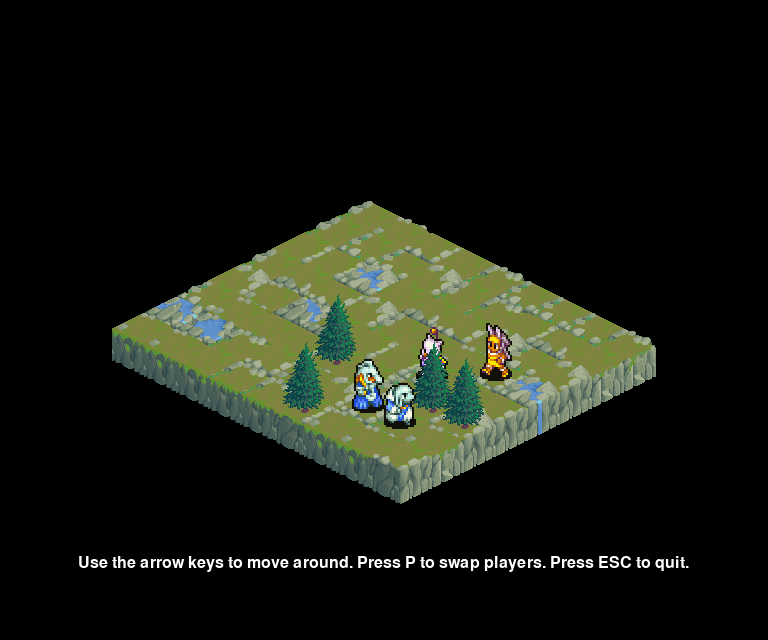
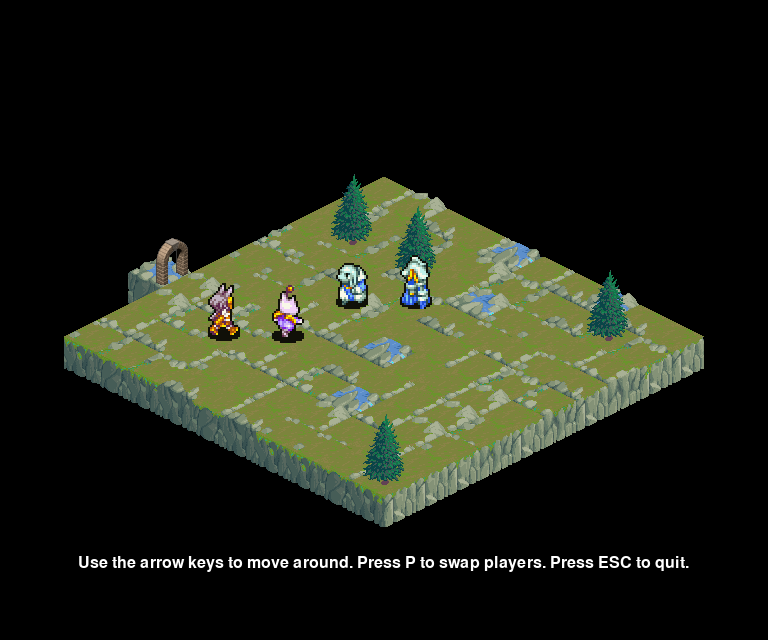
Add YAML configuration

Changed region(s): [[0.0625, 0.2812, 0.9375, 0.8438]]

diff --git a/amulet.py b/amulet.py
@@ -1,14 +1,11 @@
 import pygame
 from pygame.time import Clock
-from room import Room
 import sys
-from floor import Floor
 from random import randint, shuffle
-from actor import Babus, Archer, Templar, Mog, Actor
+from actor import Actor
 from functools import reduce
-from staticobject import StaticObject, Pillar
-from terraintile import TileType
-from exit import Exit
+from staticobject import StaticObject
+from gameloader import create_map
 
 class Amulet:
     def __init__(self):
@@ -28,15 +25,16 @@ class Amulet:
         pygame.mixer.music.load("badkalimba.mp3")
         pygame.mixer.music.play()
 
-        self.new_message("Use the arrow keys to move around. Press P to swap players. Press ESC to quit.")
+        self.new_message(
+            "Use the arrow keys to move around. Press P to swap players. Press ESC to quit.")
         self.new_alert("Welcome to Tactics Roguelike Engine Advance!")
-    
+
     def get_player_room(self):
         for actor in self.actors:
             if actor.getIsPlayer():
                 return actor.room
         return None
-    
+
     def get_player(self):
         for actor in self.actors:
             if actor.getIsPlayer():
@@ -45,7 +43,7 @@ class Amulet:
 
     def add_floor(self, floor):
         self.floors.append(floor)
-    
+
     def get_floors(self):
         return self.floors
 
@@ -67,6 +65,28 @@ class Amulet:
             return False
         return True
 
+    def leave(self, nx, ny):
+        player = self.get_player()
+        room = self.get_player_room()
+        floor = self.get_floors()[0]
+
+        exits = [(con, dest)
+                 for exit in floor.exits for con in exit.connections
+                 for dest in exit.connections if con[0] == room and dest[0] != room]
+
+        for exit in exits:
+            con, dest = exit
+            if nx == con[1] and ny == con[2]:
+                self.new_alert("Moving to room: " + dest[0].name)
+                (mx, my) = player.get_facing_delta()
+                player.room = dest[0]
+                player.x = dest[1] + mx
+                player.y = dest[2] + my
+                player.pos = (player.x, player.y)
+                return True
+
+        return False
+
     def move_player(self, forward):
         player = self.get_player()
         room = self.get_player_room()
@@ -77,8 +97,10 @@ class Amulet:
         (mx, my) = player.get_facing_delta()
         (px, py) = player.getPos()
         (nx, ny) = (px + mx, py + my) if forward else (px - mx, py - my)
-        if self.object_at(nx, ny) is None and self.in_room(room, nx, ny):
-            player.move_to(px, py, nx, ny)
+
+        if not self.leave(nx, ny):
+            if self.object_at(nx, ny) is None and self.in_room(room, nx, ny):
+                player.move_to(px, py, nx, ny)
 
     def swap_player(self):
         player = self.get_player()
@@ -128,7 +150,7 @@ class Amulet:
                         elif event.key == pygame.K_UP:
                             self.move_player(True)
                         elif event.key == pygame.K_DOWN:
-                            self.move_player(False)
+                            self.rotate_player(2)
                         elif event.key == pygame.K_p:
                             self.swap_player()
                         elif event.key == pygame.K_F5:
@@ -136,7 +158,8 @@ class Amulet:
                             create_map(self)
                         elif event.key == pygame.K_PRINTSCREEN:
                             pygame.image.save(self.screen, "screenshot.png")
-                            self.new_alert("Screenshot saved to screenshot.png")
+                            self.new_alert(
+                                "Screenshot saved to screenshot.png")
                     except AttributeError:
                         pass
                 elif event.type == self.animation_event:
@@ -148,57 +171,29 @@ class Amulet:
                     for actor in [a for a in actors if a.getMoving()]:
                         actor.update()
                     for actor in [a for a in actors if not a.getMoving() and not a.getIsPlayer()]:
-                        bad_spaces = set((b for a in objects for b in a.i_am_at()))
+                        bad_spaces = set(
+                            (b for a in objects for b in a.i_am_at()))
                         actor.pathfind(player, bad_spaces)
-
 
             self.screen.fill((0, 0, 0))
 
             room.draw(self.screen, objects, self.get_floors()[0].exits)
 
-            self.screen.blit(self.instructions, ((self.screen.get_width() - self.instructions.get_width())//2, \
-                self.screen.get_height() - 5 * self.instructions.get_height()))
+            self.screen.blit(self.instructions, ((self.screen.get_width() - self.instructions.get_width())//2,
+                                                 self.screen.get_height() - 5 * self.instructions.get_height()))
 
             # if alert is set, display it for a while
             if self.alert is not None:
                 if pygame.time.get_ticks() - self.alert_time > 5000:
                     self.alert = None
                 else:
-                    self.screen.blit(self.alert, ((self.screen.get_width() - self.alert.get_width())//2, \
-                        self.screen.get_height() - 6 * self.alert.get_height()))
+                    self.screen.blit(self.alert, ((self.screen.get_width() - self.alert.get_width())//2,
+                                                  self.screen.get_height() - 6 * self.alert.get_height()))
 
             pygame.display.flip()
 
         pygame.time.set_timer(self.animation_event, 0)
         pygame.time.set_timer(self.movement_event, 0)
-
-
-def create_map(amulet: Amulet):
-    amulet.floors = []
-    amulet.actors = []
-
-    floor = Floor('Test Floor')
-    amulet.add_floor(floor)
-
-    room = Room(10, 10, TileType.OUTSIDE)
-    floor.add_room(room)
-    other_room = Room(5, 7, TileType.ROOM)
-    floor.add_room(other_room)
-
-    floor.exits.append(Exit((room, 3, -1), (other_room, 4, other_room.height)))
-
-    all_spaces = [(x, y) for x in range(room.width) for y in range(room.height)]
-    shuffle(all_spaces)
-    player = Babus(all_spaces.pop())
-    player.setIsPlayer(True)
-    amulet.actors.append(player)
-    amulet.actors.append(Archer(all_spaces.pop()))
-    amulet.actors.append(Templar(all_spaces.pop()))
-    amulet.actors.append(Mog(all_spaces.pop()))
-    for _ in range(4):
-        amulet.actors.append(Pillar(all_spaces.pop()))
-    for actor in amulet.actors:
-        actor.room = room
 
 if __name__ == '__main__':
     amulet = Amulet()

diff --git a/gameloader.py b/gameloader.py
@@ -1,0 +1,53 @@
+import json
+from floor import Floor
+from room import Room
+from exit import Exit
+from random import shuffle
+from actor import Babus, Archer, Templar, Mog
+from staticobject import Pillar
+from terraintile import TileType
+
+json_fn = 'amulet.dat'
+
+def create_map(amulet):
+    with open(json_fn, "r") as stream:
+        game_yaml = json.load(stream)
+    
+    amulet.floors = []
+    amulet.actors = []
+
+    for floor_yaml in game_yaml:
+        floor_room_map = dict()
+
+        floor = Floor(floor_yaml['floor'])
+        amulet.add_floor(floor)
+
+        for room in floor_yaml['rooms']:
+            tiletype = eval('TileType.'+room['tileType'])
+            froom = Room(room['width'], room['height'], tiletype)
+            froom.name = room['room']
+            floor.add_room(froom)
+            floor_room_map[froom.name] = froom
+        
+        for exit in floor_yaml['exits']:
+            from_room = exit['exit'][0]
+            to_room = exit['exit'][1]
+            tuple1 = (floor_room_map[from_room['room']], from_room['x'], from_room['y'])
+            tuple2 = (floor_room_map[to_room['room']], to_room['x'], to_room['y'])
+            floor.exits.append(Exit(tuple1, tuple2))
+
+        room = floor_room_map['Entry Room']
+        all_spaces = [(x, y) for x in range(room.width)
+                    for y in range(room.height)]
+        shuffle(all_spaces)
+        player = Babus(all_spaces.pop())
+        player.setIsPlayer(True)
+        amulet.actors.append(player)
+        amulet.actors.append(Archer(all_spaces.pop()))
+        amulet.actors.append(Templar(all_spaces.pop()))
+        amulet.actors.append(Mog(all_spaces.pop()))
+        for _ in range(4):
+            amulet.actors.append(Pillar(all_spaces.pop()))
+        for actor in amulet.actors:
+            actor.room = room
+

diff --git a/terraintile.py b/terraintile.py
@@ -7,18 +7,17 @@ class TileType(Enum):
     FLOOR = 0
     WALL = 1
     OUTSIDE = 2
-    ROOM = 3
+    ROOM = 3,
+    GRASS = 4
 
 class TerrainTileFactory:
     def create_terrain_tile(tileType: TileType):
         if tileType == TileType.OUTSIDE:
             return OutsideTile()
-        # elif tileType == TileType.WALL:
-        #     return WallTile()
-        # elif tileType == TileType.FLOOR:
-        #     return FloorTile()
         elif tileType == TileType.ROOM:
             return RoomTile()
+        elif tileType == TileType.GRASS:
+            return GrassTile()
         else:
             raise Exception("Invalid tile type")
 
@@ -44,6 +43,15 @@ class OutsideTile(TerrainTile):
         if (random.randint(0, 15) == 0):
             return self.images[random.randint(9, len(self.images)-1)]
         return self.images[random.randint(0, 8)]
+
+class GrassTile(TerrainTile):
+    def __init__(self):
+        super().__init__(64, 51, 32)
+        outside_64_sprites = SpriteSheet('iso-64x64-outside.png')
+        self.images = [outside_64_sprites.image_at((256, 718, 64, 51), colorkey=-1)]
+    
+    def choose_random_image(self):
+        return self.images[0]
 
 class RoomTile(TerrainTile):
     def __init__(self):

diff --git a/room.py b/room.py
@@ -2,7 +2,6 @@ import random
 from terraintile import TileType, TerrainTileFactory
 from spritesheet import SpriteSheet
 
-
 class Room:
     def __init__(self, width: int, height: int, floor_type: TileType):
         self.width = width
@@ -14,6 +13,7 @@ class Room:
             (15, 9, 32, 47), colorkey=-1)
         self.exit_ew = SpriteSheet("portals.png").image_at(
             (54, 9, 32, 48), colorkey=-1)
+        self.name = "Room"
 
     def screen_coords(self, x, y):
         sx = (x+y)*self.floor_tile.width//2

diff --git a/compile.py b/compile.py
@@ -1,0 +1,14 @@
+import json
+import yaml
+
+yaml_fn = 'amulet.yaml'
+json_fn = 'amulet.json'
+
+with open(yaml_fn, "r") as stream:
+    try:
+        game_yaml = yaml.safe_load(stream)
+    except yaml.YAMLError as exc:
+        print(exc)
+
+with open(json_fn, "w") as stream:
+    json.dump(game_yaml, stream)
